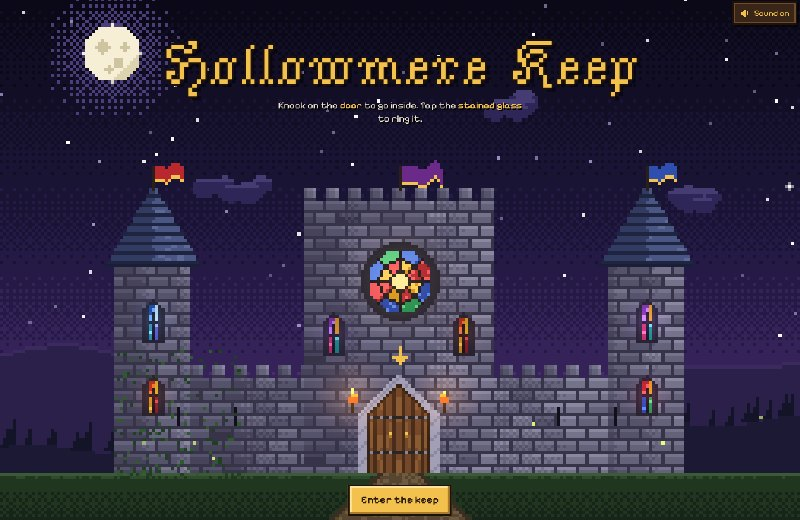
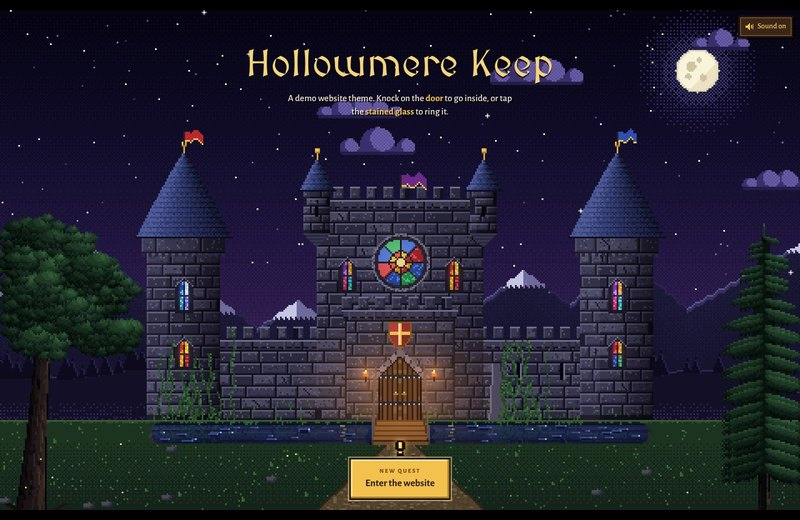
Swap in the final Hollowmere Keep cover on the Example sites card
Claude-Session: https://claude.ai/code/session_01QKC3TKTeBbrA9BCsGjUVsT

diff --git a/tools/Main.dc.html b/tools/Main.dc.html
@@ -579,7 +579,7 @@ main h1, main h2, main section > p { text-shadow: 0 0 2px var(--bg), 0 2px 18px 
 </div>
 </article>
 <article class="card" style="display: flex; flex-direction: column; border: 1px solid var(--line); background: var(--bg); overflow: hidden">
-<img src="/_blob/008c1bd6efd8b7a6d0fff5d66e01ea0e" alt="Hollowmere Keep: a pixel-art castle at night with stained glass windows, banners and a torch-lit wooden door" loading="lazy" style="display: block; width: 100%; aspect-ratio: 800 / 520; object-fit: cover; border-bottom: 1px solid var(--line)">
+<img src="/_blob/9ea8560b3176e180c58462cb8269a2d5" alt="Hollowmere Keep: a pixel-art castle at night with stained glass windows, banners and a torch-lit wooden door" loading="lazy" style="display: block; width: 100%; aspect-ratio: 800 / 520; object-fit: cover; border-bottom: 1px solid var(--line)">
 <div style="display: flex; flex-direction: column; gap: 12px; padding: 22px; flex-grow: 1">
 <div style="display: flex; justify-content: space-between; font-family: 'JetBrains Mono', monospace; font-size: 11px; letter-spacing: 0.1em; text-transform: uppercase"><span style="color: var(--dim)">Ex. 02 · Small business</span><span style="color: var(--dim)">Coming soon</span></div>
 <h4 style="margin: 0; font-family: 'Silkscreen', monospace; font-size: 24px; font-weight: 700">Hollowmere Keep</h4>
